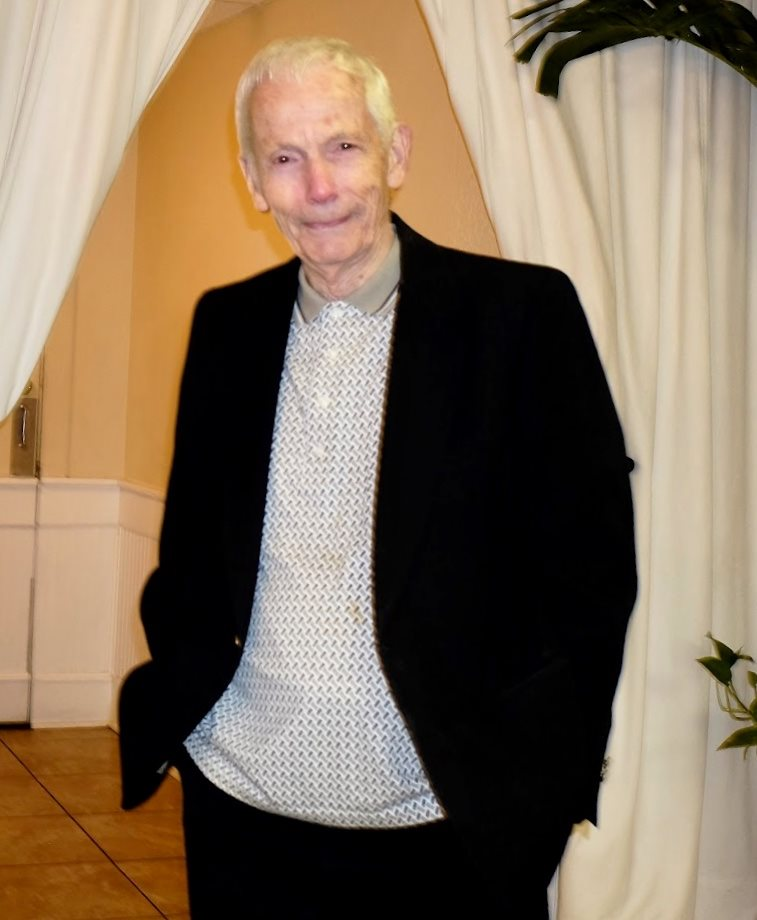
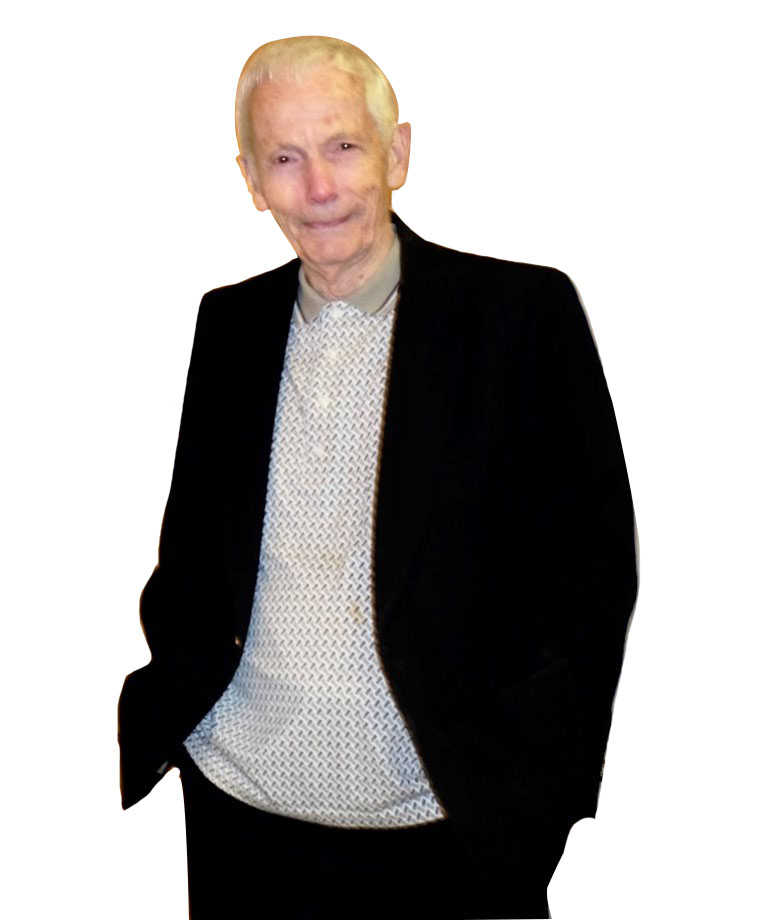
change 05-21-20

diff --git a/src/assets/scss/main.scss b/src/assets/scss/main.scss
@@ -158,7 +158,7 @@ body{
 /* Images SVG*/
 .svg-bg{
     img{
-        width: 427px;
+        width: auto;
         text-align: center;
         min-width: 85%;
         margin: 0 auto;
@@ -252,7 +252,7 @@ body{
     height: 100vh;
     position: absolute;
     z-index: 999;
-    width: 50%;
+    width: 30%;
     top: 0;
     background: #060606;
     right: 0;
@@ -268,6 +268,10 @@ body{
         text-align: left;
         transform: translateY(10em);
         margin: 0 3em;
+        display: flex;
+        flex-direction: column;
+        height: 60vh;
+        justify-content: center;
     }
     li{
         list-style-type: none;
@@ -330,7 +334,7 @@ body{
 
 .image-wrapper-anim{
     background: #272727;
-    height: 500px;
+    height: 80vh;
     position: absolute;
     width: 40%;
     z-index: 99;
@@ -339,11 +343,10 @@ body{
 
 .wrapper-ft{
     background: #383737;
-    height: 93px;
+    height: 27vh;
     position: absolute;
     width: 375px;
 }
-
 
 .before-elements{
     background: #232323;
@@ -362,11 +365,11 @@ body{
 .img-s{
     width: 356px !important;
     min-width: 50% !important;
-    transform: translate(35%, 7%) !important;
+    transform: translate(51%, 140px) !important;
 }
 
 .img-th{
     width: 258px !important;
-    transform: translate(100px, 46px) !important;
+    transform: translate(100px, 80px) !important;
     min-width: 64% !important;
 }

diff --git a/src/pages/index.js b/src/pages/index.js
@@ -12,7 +12,7 @@ import { CSSPlugin } from 'gsap/CSSPlugin'
 //images
 import image1 from '../../static/img/couple.png'
 import image2 from '../../static/img/book_cover.png'
-import image3 from '../../static/img/author.jpg'
+import image3 from '../../static/img/author.png'
 
 const IndexPage = (props) =>{
 
@@ -91,8 +91,6 @@ const IndexPage = (props) =>{
           animation(sectState);
       }
     }
-
-
 
     btnArrow.forEach(btn =>{
         btn.addEventListener('click', ()=>{

diff --git a/gatsby-config.js b/gatsby-config.js
@@ -18,7 +18,7 @@ module.exports = {
     {
       resolve: `gatsby-plugin-manifest`,
       options: {
-        name: `gatsby-starter-  default`,
+        name: `gatsby-starter-default`,
         short_name: `starter`,
         start_url: `/`,
         background_color: `#663399`,

diff --git a/src/components/navigation.js b/src/components/navigation.js
@@ -38,7 +38,7 @@ const Nav = (props) =>{
 				style={props.pathExt == '/' ? {
 						borderBottom: '1px solid rgb(41, 41, 41)'
 					}:{
-						borderBottom: '1px solid rgb(255, 255, 255)'
+						borderBottom: '1px solid rgb(53, 53, 53)'
 						}
 					}
 				>
